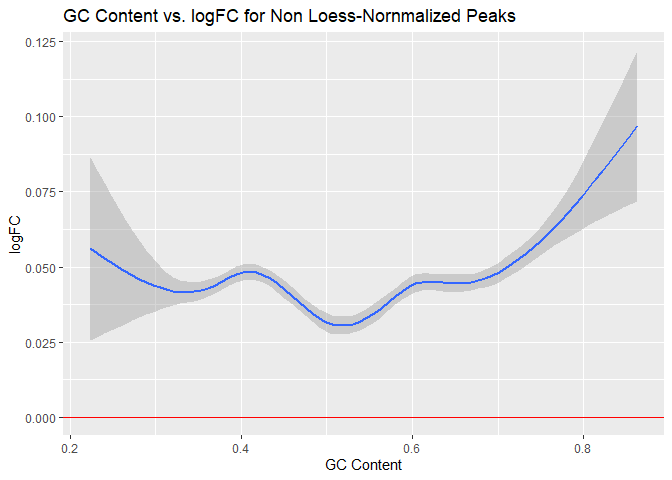
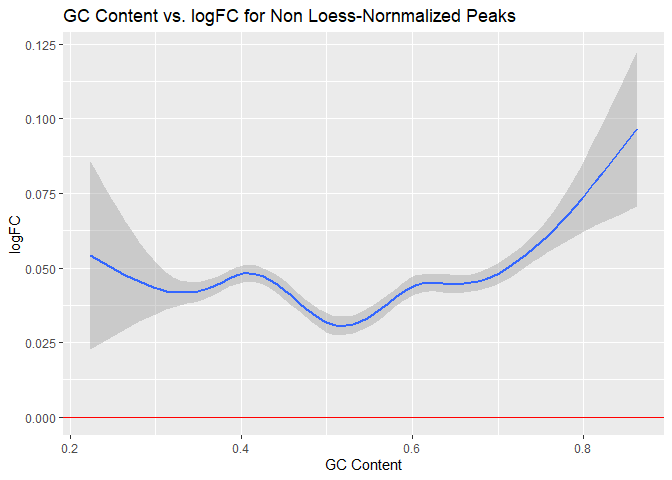
Final commit.

diff --git a/A6/Assignment6.md b/A6/Assignment6.md
@@ -209,10 +209,11 @@ appropriate control to gauge the effect of BRM014.*
 ### `#?#` *Can we compare BRM014 to DMSO across all time points? Why/why not? - 1 pt*
 
 \#ANSWER: No. We can only compare BRM014 to DMSO at the time points 5min
-and 24h, since there is no such DMSO sample at the remaining time points
-(i.e., 10min, 30min, 1h, and 6h). Since DMSO is the control to gauge the
-effect of BRM014 and is only present at the first and last time points,
-a comparison between the two is only appropriate at those times.
+and 24h since there is no such DMSO sample at the remaining time points
+(i.e., 10min, 30min, 1h, and 6h). Thus, the possibility of utilizing
+DMSO as a vehicle-only control to confidently affirm that any observed
+effects are due to the drug alone and not the solventis is only existent
+at the first and last time points.
 
 ``` r
 #NOTE: We can further inspect the data.frame to verify this answer. These commands show that DMSO samples are only present at times 5min and 24h, while BRM014 is present at every time point (i.e., 5min, 10min, 30min, 1h, 6h, and 24h).
@@ -412,23 +413,26 @@ t + labs(title= "Heatmap of Pairwise Correlations Between Samples", y = "Sample"
 
 ### `#?#` *What do you expect the correlations between replicates to look like? Is that what you see? - 2 pt*
 
-\#ANSWER: I would expect to observe a correlation between technical
-replicates (e.g., R1\_24h\_control and R2\_24h\_control), as well as
-biological replicates (e.g., R1\_24h\_control and R1\_24h\_BI\_protac).
-These two factors would suggest a reproducible, or at least internally
-consistent, replication with highly positive statistical relationship
-between replicates. This is in fact observed in the heatmap, where the
-correlation coefficients range from 0.8 to 0.91 between replicates of
-the same sample, from 0.83-0.85 between samples of R1, and from
-0.86-0.90 between samples of R2. There is a possible outlier pair in the
-R2 replicates, namely R2\_24h\_BI\_protac and R2\_24h\_control, which
-have a correlation coefficient of 0.81.
+\#ANSWER: I would expect two biological independent replicates to show
+very high correlations. This is because repeated measurements of the
+same sample reflect sources of variability between and, potentially,
+within runs, as technical replication identifies measurement errors or
+noise caused by the equipment or protocol. Thus, for a well-replicable
+and repeatable experiment, I would expect the variance of measurements
+within each replicate group to be similar between groups. Indeed, this
+is attested by the heatmap, where the correlation coefficients fall in
+the range of 0.83-0.85 between technical samples from R1 and 0.86-0.90
+between technical samples from R2. Note that there is a possible outlier
+pair in the R2 replicates, namely R2\_24h\_BI\_protac and
+R2\_24h\_control, which have a correlation coefficient of 0.81.
+Nonetheless, the general trend suggests a strong correlation between
+replicates and internally consistent replication.
 
 ``` r
 #NOTE: We can further inspect the correlation coefficients.
 #Correlation coefficients between replicates of the same sample:
 #filter(melt_cc, substring(melt_cc$Var1,3)==substring(melt_cc$Var2,3) & melt_cc$Var1 != melt_cc$Var2)
-#Correlation coefficients between samples of the same replicate:
+#Correlation coefficients between samples of the same group:
 #filter(melt_cc, substr(melt_cc$Var1,0,3)==substr(melt_cc$Var2,0,3) & melt_cc$Var1 != melt_cc$Var2)
 ```
 
@@ -441,7 +445,7 @@ contaminant of ATAC-seq data.*
 ### `#?#` *Filter your data, retaining only regions where the average counts per sample is greater than 10, and also remove mitochondrial regions - 3 pt*
 
 ``` r
-filtered_atacSeqData <- atacSeqData_BI_protac_control[rowSums(atacSeqData_BI_protac_control < 10)==0, , drop = FALSE]
+filtered_atacSeqData <- atacSeqData_BI_protac_control[rowMeans(atacSeqData_BI_protac_control < 10)==0, , drop = FALSE]
 filtered_atacSeqData <- filtered_atacSeqData[!grepl("chrM",filtered_atacSeqData$region),]
 #this filtered data.frame contains only BI_protac and control samples and non-mitochondrial regions with average counts greater than 10
 ```
@@ -708,20 +712,22 @@ abline(h = 0, col = 'blue')
 \#ANSWER: The first normalization method was performed by edgeR’s
 calcNormFactors() function, which utilizes scaling factors based on the
 weighted trimmed mean of M-values (TMM) to convert raw library sizes
-into effective library sizes. Changes in the MA plots are particularly
-noticeable for the in the allDEStatsPairedTreatControlvsProtac dataset,
-where differences in the curvature of the loess line suggest that loess
-normalization is preferable over the TMM approach. This occurs because
-the loess line visually indicates the amount of bias in differential
-accessibility with a fixed threshold (M=1 or M=-1), thus a more reliable
-analysis is achieved when it is horizontal at M=0 as observed in the
-loess-normalized data. Furthermore, TMM normalization assumes that most
-regions of the genome are not truly differentially accessible and that
-signal differences arise from technical artifacts or systematic biases
-in library ATAC distribution, but this guaranteee cannot be made due to
-the possible biological effects of treatment drugs on chromatin
-accessibility. Lastly, loess normalization also addresses trended bias
-in addition to efficiency bias.
+into effective library sizes. In the MA plots, noticeable discrepancies
+in the number of differentially accessible regions (i.e., red points)
+cannot be observed. However, changes in the curvature of the loess lines
+are particularly noticeable for the allDEStatsPairedTreatControlvsProtac
+dataset, where it suggests that loess normalization is preferable over
+the TMM approach. This occurs because the loess line visually indicates
+the amount of bias in differential accessibility with a fixed threshold
+(M=1 or M=-1), thus a more reliable analysis is achieved when it is
+horizontal at M=0 as observed in the loess-normalized data. Furthermore,
+TMM normalization assumes that most regions of the genome are not truly
+differentially accessible and that signal differences arise from
+technical artifacts or systematic biases in library ATAC distribution,
+but this guaranteee cannot be made for this analysis due to the possible
+biological effects of treatment drugs on chromatin accessibility.
+Lastly, loess normalization also addresses trended bias in addition to
+efficiency bias, so it is a more suitable normalization method.
 
 # Part 4: GC bias
 
@@ -824,7 +830,7 @@ u + facet_wrap(~variable) + labs(title= "Relationship Between Peak CPM and GC Co
 require(mgcv)
 
 v <- ggplot(melt_cpm_atacSeqData, aes(x=GC, y=value, col = factor(variable))) + ylim(0,50) + stat_smooth(method = "gam")
-v + labs(title= "GC Content vs. CPM for Peaks", y = "CPM", x = "GC Content", color = "Sample")
+v + labs(title= "GC Content vs. CPM per Sample", y = "CPM", x = "GC Content", color = "Sample")
 ```
 
     ## `geom_smooth()` using formula 'y ~ s(x, bs = "cs")'
@@ -844,8 +850,8 @@ distribution. The slight sample-specific variations must therefore be
 driven by either technical bias or biological conditions. Sources of
 bias such as enzymatic cleavage and PCR amplification have a preference
 towards GC-rich regions, but read count normalization using the loess
-approach which removes local extremes caused by insufficient coverage
-for some percentual GC content. Thus, I believe that there will not be a
+approach removes local extremes caused by insufficient coverage for some
+percentual GC content. Thus, I believe that there will not be a
 significant relationship between GC content and logFC in our
 loess-normalized differential accessibility analysis. This hypothesis is
 based on the assumption that the differences observed between samples is
@@ -858,8 +864,11 @@ experimental conditions.
 ``` r
 allDEStatsPairedTreatControlvsProtac_loess <- as.data.frame(topTags(qlfPairedTreatControlvsProtac_loess,n=nrow(countMatrix)))
 filtered_atacSeqData$logFC <- allDEStatsPairedTreatControlvsProtac_loess$logFC[match(row.names(allDEStatsPairedTreatControlvsProtac_loess),row.names(filtered_atacSeqData))]
-melt_loess_atacSeqData <- melt(filtered_atacSeqData, id.vars=c("region","GC","logFC"))
-w <- ggplot(melt_loess_atacSeqData, aes(x=GC, y=logFC)) + stat_smooth(method = "gam") + geom_hline(yintercept=0, color = "red")
+filtered_atacSeqData$logFC_null <- allDEStatsPairedTreatControlvsProtac$logFC[match(row.names(allDEStatsPairedTreatControlvsProtac),row.names(filtered_atacSeqData))]
+
+melt_atacSeqData <- melt(filtered_atacSeqData, id.vars=c("region","GC","logFC","logFC_null"))
+
+w <- ggplot(melt_atacSeqData, aes(x=GC, y=logFC)) + stat_smooth(method = "gam") + geom_hline(yintercept=0, color = "red")
 w + labs(title= "GC Content vs. logFC for Loess-Nornmalized Peaks", y = "logFC", x = "GC Content")
 ```
 
@@ -870,9 +879,7 @@ w + labs(title= "GC Content vs. logFC for Loess-Nornmalized Peaks", y = "logFC",
 ### `#?#` *Now plot the same thing for the NON loess-normalized ControlvsProtac analysis. - 1 pt*
 
 ``` r
-filtered_atacSeqData$logFC_null <- allDEStatsPairedTreatControlvsProtac$logFC[match(row.names(allDEStatsPairedTreatControlvsProtac),row.names(filtered_atacSeqData))]
-melt_atacSeqData_null <- melt(filtered_atacSeqData, id.vars=c("region","GC","logFC_null"))
-x <- ggplot(melt_atacSeqData_null, aes(x=GC, y=logFC_null)) + stat_smooth(method = "gam") + geom_hline(yintercept=0, color = "red")
+x <- ggplot(melt_atacSeqData, aes(x=GC, y=logFC_null)) + stat_smooth(method = "gam") + geom_hline(yintercept=0, color = "red")
 x + labs(title= "GC Content vs. logFC for Non Loess-Nornmalized Peaks", y = "logFC", x = "GC Content")
 ```
 
@@ -883,13 +890,19 @@ x + labs(title= "GC Content vs. logFC for Non Loess-Nornmalized Peaks", y = "log
 ### `#?#` *Was your prediction correct? Do you think we should also account for GC normalization in our differential ATAC analysis? Why/why not? - 3 pt*
 
 \#ANSWER: Yes, my prediction was correct and a similar pattern is once
-again observed in regions with very low or very high GC content. I
-believe that we do not need to apply GC normalization to account for
-GC-content effects in ATAC-seq analysis because loess normalization
-corrects sample-specific technical artifacts such as enzymatic cleavage
-effects, PCR bias, and duplicate reads. These factors are all related to
-GC content and can bias ATAC analyses, which are largely based on logFC
-metrics.
+again observed in regions with very low or very high GC content, where
+logFC appears to vary the most. I believe that we do not need to apply
+GC normalization to account for GC-content effects in this specific
+ATAC-seq analysis because any GC bias is consistent across all libraries
+and will thus cancel out. Furthermore, loess normalization helps in
+correcting sample-specific technical artifacts such as enzymatic
+cleavage effects, PCR bias, and duplicate reads. These factors are all
+related to GC content and can bias ATAC analysis, which is largely based
+on logFC metrics. However, in ATAC-seq analyses where the pctGC
+vs. logFC varies more prominantly between samples, a combination of
+normalization factors (e.g., TMM or loess approach in addition to a
+peak-based GC bias estimate that is calculated separately for each
+sample) should be applied.
 
 *We will leave GC normalization as an optional exercise, and will not
 actually do it here.*
@@ -913,14 +926,27 @@ normalized**)*
 \#ANSWER: Yes, we would need to re-adjust the design to account for the
 fact that different combinations of experimental conditions can have a
 unique effect. Therefore, we must setup a new design matrix that
-considers all the levels of treatment time for each treatment drug. In
-comparison to the original design matrix (designPaired), which was
+considers all the levels of treatment time for each treatment drug
+(i.e., set up an experiment with all combinations of multiple factors).
+In comparison to the original design matrix (designPaired), which was
 formed from an additive model formula without an interaction term, the
 new matrix should be built by combining all the experimental factors
 into a single factor that is defined as a group or by utilizing nested
 interaction formulas. Nonetheless, we must still account for the batch
 effect observed from the MDS plot, in addition to the treatment effects
-over all times.
+over all times. Example of this can be found in section 3.3 of edgeR’s
+user guide, inlcuding:
+
+``` r
+#y = DGEList(counts=countMatrix, group=curSamples$treatment) 
+#y = calcNormFactors(y)
+#design = model.matrix(~curSamples$treatment * curSamples$timeName)
+#y = estimateDisp(y, design)
+#fit = glmQLFit(y, design)
+#qlf = glmQLFTest(fit, coef=2)
+#qlf = glmQLFTest(fit, coef=3)
+#qlf = glmQLFTest(fit, coef=4)
+```
 
 ### `#?#` *How many differential peaks did you find (FDR&lt;0.01). - 1 pt*
 
@@ -947,7 +973,7 @@ z <- ggplot(allDEStatsPairedTreatControlvsProtac, aes(x=logFC, y=-log10(PValue),
 z + labs(title= "Volcano Plot of allDEStatsPairedTreatControlvsProtac", color = "Significance")
 ```
 
-![](Assignment6_files/figure-gfm/unnamed-chunk-32-1.png)<!-- -->
+![](Assignment6_files/figure-gfm/unnamed-chunk-33-1.png)<!-- -->
 
 ### `#?#` *Plot the logCPM (x axis) by -log10(Pvalue) (y axis), again colouring by FDR&lt;0.01. - 2 pt*
 
@@ -956,7 +982,7 @@ a <- ggplot(allDEStatsPairedTreatControlvsProtac, aes(x=logCPM, y=-log10(PValue)
 a + labs(title= "Plot of logCPM vs -log10(PValue) for allDEStatsPairedTreatControlvsProtac", color = "Significance")
 ```
 
-![](Assignment6_files/figure-gfm/unnamed-chunk-33-1.png)<!-- -->
+![](Assignment6_files/figure-gfm/unnamed-chunk-34-1.png)<!-- -->
 
 ### `#?#` *Do you think our initial filtering on peaks with at least 10 reads on average per sample was a good choice? Why or why not?*
 
